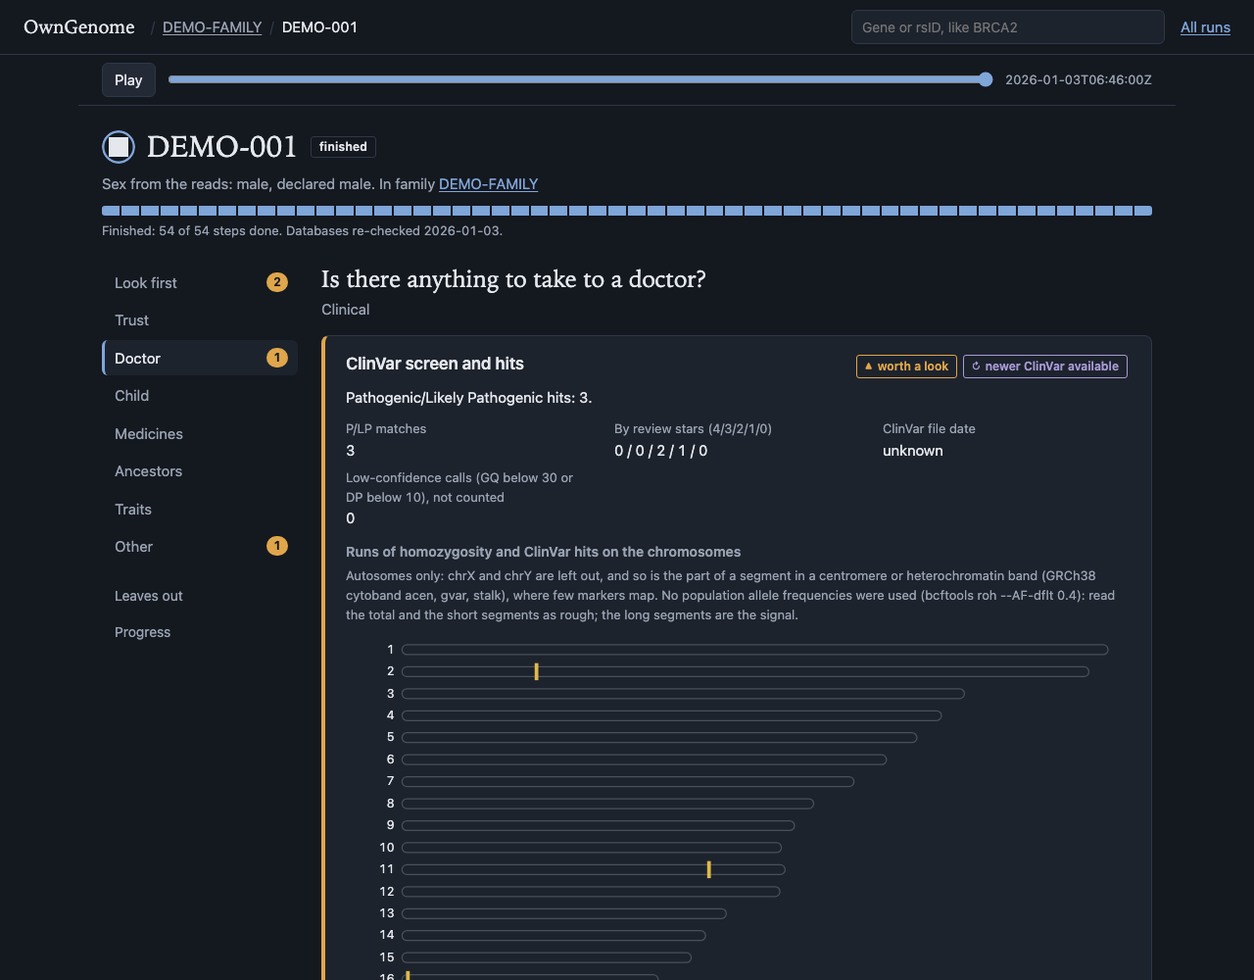
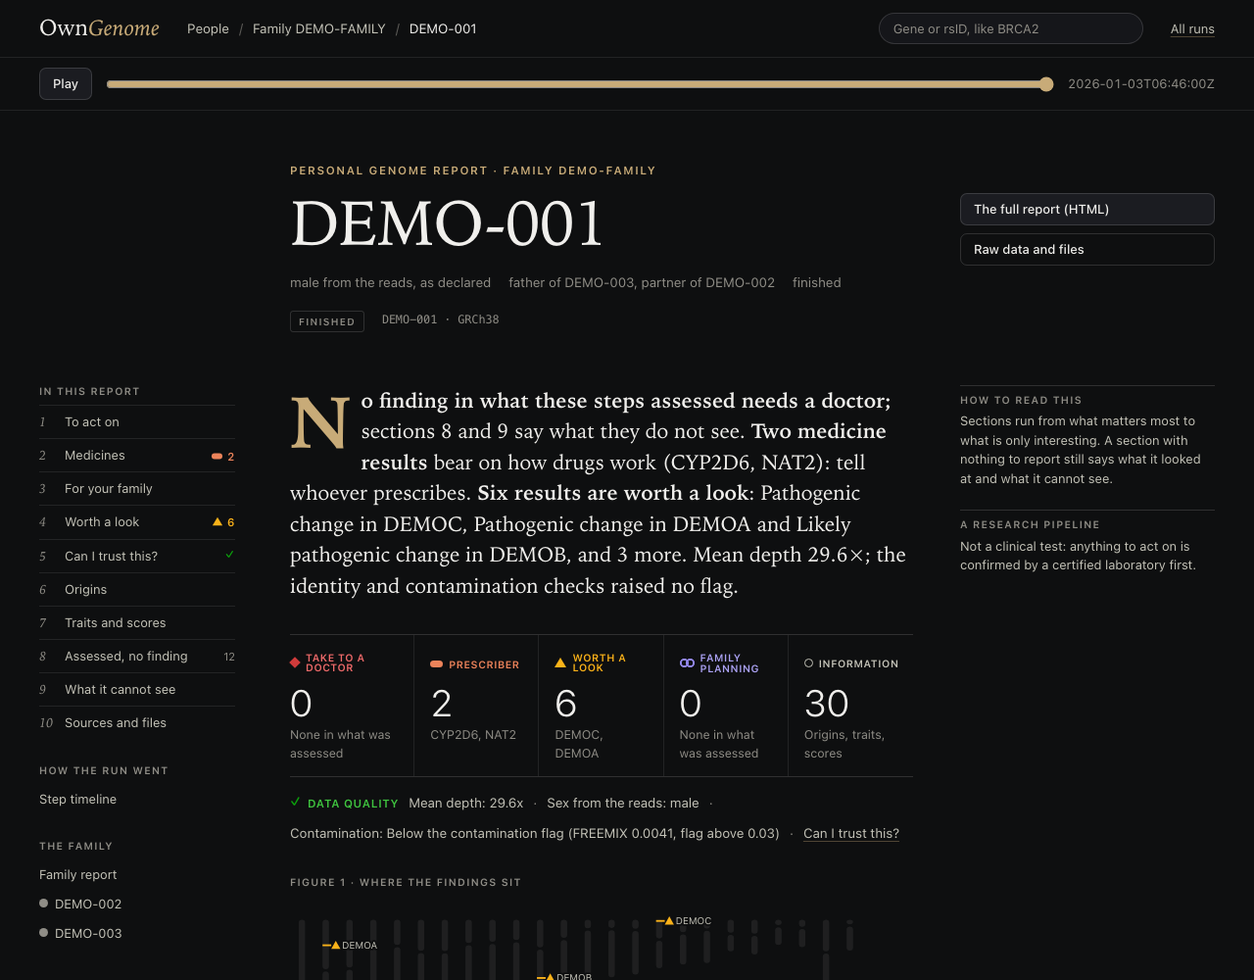
docs(live): describe the Journal pages, the finding route and the new JSON fields
Bead: pgp-5bja.31

diff --git a/docs/live-site.md b/docs/live-site.md
@@ -1,6 +1,6 @@
 # Watch a Run Live
 
-A full run takes a day or more. The live site shows each person's results as their steps finish, in a browser on any device that can reach the machine: the report's chapters as tabs, one card per section with its numbers, its rows and its caveat, and what is worth a look first. A Progress tab keeps the step map. A home page lists everyone by family, and each family has a page of its own. The pages repaint as messages arrive; nobody has to reload them.
+A full run takes a day or more. The live site shows each person's results as their steps finish, in a browser on any device that can reach the machine. Each genome reads as a report: a lead paragraph that says what to take to a doctor, what to tell a prescriber and what is worth a look, then ten numbered sections from what matters most to what the run cannot see, each finding with a page of its own. While the run goes, a timeline of its steps sits on top. A home page lists everyone by family, and each family has a report of its own. The pages repaint as messages arrive; nobody has to reload them.
 
 `bin/owngenome_live.py` is the server. It uses Python's standard library only, so the `python3` on the host is enough, and it has its own password, access log and limits, so it needs no web server in front of it.
 
@@ -8,7 +8,7 @@ A full run takes a day or more. The live site shows each person's results as the
 
 https://geiserx.github.io/OwnGenome/demo/ is the live site on DEMO-001, the invented sample of the docs pictures. It replays a made-up run from the first task to the database re-check after it: press Play, or drag the slider, and watch the cards fill in as their steps end. Every number, result and family member in it is made up. The family is an invented trio: DEMO-001, the partner DEMO-002 and their son DEMO-003. Each of the three has a finished run with its own findings, so every card widget and the whole family page have something to draw: DEMO-002 carries an FMR1 premutation-range count, a CHIP call and a MoChA loss; DEMO-003 a class 4 AnnotSV deletion and a Y path.
 
-![The person page of DEMO-001 at the end of the demo run: the name with a progress strip of 54 finished steps, a tab column (Look first, Trust, Doctor, Child, Medicines, Ancestors, Traits, Other, Leaves out, Progress) with Doctor open, and the ClinVar card marked worth a look and newer ClinVar available, with its counts and the chromosome chart of its hits](images/demo-live-site.png){ loading=lazy }
+![The person page of DEMO-001 at the end of the demo run: the name with its family and run state, the contents of the ten sections with a count per level, the lead paragraph (no finding for a doctor, two medicine results, six worth a look), the five-level ledger, the data-quality line and the start of the chromosome map of the findings](images/demo-live-site.png){ loading=lazy }
 
 The pages and their plugins are the files of `assets/live/`, unchanged. Each moment of the replay is the server's own `state.json` at that moment: `tests/demo/build_live_demo.py` loads every plugin, stores the made-up messages of `tests/fixtures/live/demo-001.weblog.jsonl` one by one as the ingest port would, and reads the state after each. The cards come from the `results.json` the server would give at the end of the run; each shows once the replay reaches the end of its step. The home page, the charts, the search box, the run-health card, the database re-check and the family page work as they do on your own site. The genome viewer does not: it opens your own reads on your own computer, so its links lead to a page that says it is not in the demo.
 
@@ -44,26 +44,35 @@ weblog {
 
 ## What the pages show
 
-**Home** (`/`). Everyone, grouped by family, then the runs in no family. A card shows the pedigree symbol with a ring for the run's progress, the person's place in the family, the steps done and how many cards the report flags. Runs still going come first in each family. A family member with no run on this server is listed, dashed. Without scripts the page is a plain list of runs.
+Every result carries one of six levels, with a word, a shape and a colour, so the shape alone tells them apart: **Take to a doctor** (◆), **Tell your prescriber** (a pill), **Worth a look** (▲), **For family planning** (two rings), **Data quality** (✓, red when the data has a problem) and **For information** (○). `bin/live_results.py` sets the level from the rows the report already prints: an ACMG secondary finding, a pathogenic CPSR row or two hits in a carrier-list gene is to act on; a ClinVar hit, an AnnotSV class 4, a repeat outside Stranger's normal, a CHIP or MoChA call or an Exomiser top gene is worth a look (a full-mutation repeat, an AnnotSV class 5 and a positive VNtyper call are to act on); a carrier-list row, a gene both partners carry and one SMN1 copy are for family planning; a CPIC gene with changed function is for the prescriber; a sex mismatch, a contamination warning or a second run of the same person is data quality. Everything else is for information. No page says a section is fine: a section with no finding says "No finding in what these steps assessed" and what it looked at.
 
-**A person** (`/runs/<run>/`). The name, the declared and measured sex, the families they are in, and a strip with one cell per planned step. Below, one tab per chapter of the report, each named by its question:
+**Home** (`/`). A date line, then one sentence on where everyone stands (how many reports are finished or being written, and whether any finding needs a doctor), and beside it the findings that need attention across everyone, one line per person and level, each opening its finding page. A run still going comes first, as "Being written", with its steps done and the sections already written. Then each family: a small pedigree in the members' colours and one tile per person, with the first lines of their report's lead and their counts by level. A family member with no run on this server is listed, dashed. Last, every run as a log: state, steps, hours, when it ended. Without scripts the page is a plain list of runs.
 
-- **Look first** opens by default once a step has finished: the cards the report itself flags, in chapter order, each with its headline. A card not listed is for information; its caveats still apply.
-- **Trust, Doctor, Child, Medicines, Ancestors, Traits, Other** follow the report's seven chapters. One card per section, with the section's numbers, its rows (the first ones, then a button for all), its own sentences and its charts. Under each card sits its caveat: the first sentence, then the rest behind "Full caveat". A card is marked "worth a look" (▲) only where the report or the step headline raises a flag, and "for information" (○) otherwise; no card says a section is fine. A card whose step has not ended says so; one whose step failed or is older than its input says that. A newer database release shows on the cards it would change. Some cards draw their numbers as well: the repeat expansions as one gauge per locus (the count against Stranger's normal and pathologic thresholds, with its 95% interval; an allele not sized from short reads is drawn hollow and never called normal), Lp(a) as the KIV-2 count with its 95% interval, CHIP as each call's VAF against its gene's detection limit, the copy numbers of SMN1, SMN2, HBA1, HBA2 and the RCCX module as dots, and the Y haplogroup as its path from the root, with the marker counts of each level. Each drawing has the same numbers as text beside it. APOE stays behind its warning in the traits card; the polygenic scores show only once they are placed against the ancestry panel.
-- **Leaves out** lists what the run does not assess.
-- **Progress** is the step map, a step's detail, Found so far, the run-health card and the database re-check, as before.
+**A person** (`/runs/<run>/`). The name, the sex the reads show against the declared one, the person's place in the family and the run state. Down the left, the contents: the ten sections with how many findings each level has, then the step timeline and the family. The page opens on the lead: a paragraph built from the findings (data-quality problems first, then the findings for a doctor named one by one, the medicine genes, the carrier genes, what is worth a look, and the mean depth), the ledger of the five levels with a count each, the data-quality line, and Figure 1, the chromosomes with each finding at its place. Then the sections:
 
-Each card links to its section of the report and to the files it names. The header search finds a gene or rsID across the results and opens the card that names it. `#q/<chapter>` opens a tab, `#s/<section>` opens a card (the report's own anchors), `#progress` the step map.
+1. **To act on**, 2. **Medicines**, 3. **For your family**, 4. **Worth a look**, 5. **Can I trust this?**: each finding of the level, with what it is, what to do, and in the margin its evidence, its caveat and its link to the report; then the cards of the report's sections that belong there.
+6. **Origins** and 7. **Traits and scores**: the ancestry and trait cards.
+8. **Assessed, no finding**: one line per section that ran and raised nothing, each opening its full card.
+9. **What it cannot see**: what the run does not assess and the steps that did not run.
+10. **Sources and files**: the database versions, the database re-check, and the report and its files.
 
-- **The step map.** One box per step the run planned, drawn from `assets/steps.tsv`: a step sits right of the steps whose output it reads. The colour is the step's state from `bin/run_state.py` ([Where a Run Stands](run-state.md)): waiting, running, done, failed, skipped, not finished. Skipped steps stay on the map, greyed.
-- **A step's detail.** Click a box: its state and reason, start and end, the usual hours, each process with its tasks waiting, running, done, from the cache or failed, and the headline of its sections with a link into the report.
-- **Found so far.** One line per finished section, worded by the same code that writes the report, caveat included. No line ever says a section is fine. The ClinVar line, with no hit, is information, never an all-clear.
+A card has the section's numbers, its rows (the first ones, then a button for all), its own sentences and its charts, and under it its caveat: the first sentence, then the rest behind "Full caveat". A section waiting for its step says "being written" or "waiting", one whose step failed says so, and a newer database release shows on the cards it would change. Some cards draw their numbers as well: the repeat expansions as one gauge per locus (the count against Stranger's normal and pathologic thresholds, with its 95% interval; an allele not sized from short reads is drawn hollow and never called normal), Lp(a) as the KIV-2 count with its 95% interval, CHIP as each call's VAF against its gene's detection limit, the copy numbers of SMN1, SMN2, HBA1, HBA2 and the RCCX module as dots, and the Y haplogroup as its path from the root, with the marker counts of each level. Each drawing has the same numbers as text beside it. APOE stays behind its warning in the traits card; the polygenic scores show only once they are placed against the ancestry panel. On a child's page in a family, a result to act on stays closed behind "Show the result" until someone opens it on purpose.
+
+While the run goes, the page opens on the run instead: a sentence on how far it is ("23 of 27 are done, about 8–13 hours remain"), the steps done as a big number and a bar, the time elapsed, the time to go from the usual step times, the retries, and the tasks running now against their usual time. Each section in the contents says whether it is written, being written or waiting.
+
+- **How the run went.** One line per step the run planned, on a time axis: a bar from its start to its end, or to now while it runs, with an outline to its usual hours. The colour is the step's state from `bin/run_state.py` ([Where a Run Stands](run-state.md)): waiting, running, done, failed, skipped, not finished. Beside it the tasks running now, a step's detail and the wire of what was found so far.
+- **A step's detail.** Click a step: its state and reason, start and end, the usual hours, each process with its tasks waiting, running, done, from the cache or failed, and the headline of its sections with a link into the report.
+- **Found so far.** One line per finished section, worded by the same code that writes the report, caveat included. The ClinVar line, with no hit, is information, never a clean result.
 - **The report.** Once written, `report.html` opens the run's `<sample>_report.html`, and the files it links to beside it.
-- **The genome viewer.** `/runs/<run>/viewer/` shows the run's reads and variants in igv.js, as [`scripts/owngenome-view.sh`](viewer.md) does on one computer. The report's Viewer links and the charts' "See the reads" links open it at their position.
+- **The genome viewer.** `/runs/<run>/viewer/` shows the run's reads and variants in igv.js, as [`scripts/owngenome-view.sh`](viewer.md) does on one computer. The report's Viewer links, the charts' "See the reads" links and a finding page's reads open it at their position.
 
-**A family** (`/runs/<family>/`). The pedigree, drawn from `members.tsv` or `pedigree.tsv`, where each sequenced person with a run here opens their page and shows how many cards their report flags. Then the members, the analyses step 38 planned, each couple's carrier screen in full (genes where both carry a finding, X-linked genes, genes where one partner does), with the screen's caveat and a link to the couple report, who is related how (step 38's relationship check beside the shared segments, as a grid of every pair, with ⚑ where the measured relationship differs from the declared one), and each child: the stretches inherited from each parent painted per chromosome (coloured by grandparent where step 38 could tell), the de novo candidates and the compound-het pairs, in trans first. Last, the members side by side: their CYP2D6 calls, CPIC phenotypes, HLA types, haplogroups and blood groups, one column each. On a phone the grid becomes a list of pairs.
+The header search finds a gene or rsID across the results and opens the card that names it. `#s<n>` opens a section, `#s/<section>` a card (the report's own anchors), `#f/<finding>` a finding, `#q/<chapter>` the section a report chapter falls in, `#progress` the timeline.
 
-On a phone the tab column becomes a row that scrolls sideways and each table row becomes a short list of label and value. The pages follow the browser's dark or light setting.
+**A finding** (`/runs/<run>/finding/<id>/`). One finding on a page of its own: its level and how many others share it, the title, the gene and variant, a plain explanation, and **What to do** as numbered steps. Then the evidence (its numbers, how common the change is on a log scale from one in a million to everyone, the caveat in the margin), the reads with a link to the genome viewer, the rest of the family, the related findings of the same gene or step, and the section of the report it comes from. The contents on the left lead back to the report and on to the next finding. The page is 404 unless the id is a finding of that run's `results.json` now.
+
+**A family** (`/runs/<family>/`). A report in five chapters, opened by a lead: how many genomes are read together, whether the couple shares a carrier gene, whether the measured relationships match the tree, and how many children. I, the pedigree, drawn from `members.tsv` or `pedigree.tsv` in the members' colours, where each sequenced person with a run here opens their page and shows how many cards their report flags, beside the members and the analyses step 38 planned. II, who is related how: step 38's relationship check beside the shared segments, as a grid of every pair, with ⚑ where the measured relationship differs from the declared one. III, each couple's carrier screen in full (genes where both carry a finding, drawn as four children with the chance for each, X-linked genes, genes where one partner does), with the screen's caveat and a link to the couple report. IV, each child: the stretches inherited from each parent painted per chromosome (coloured by grandparent where step 38 could tell), the de novo candidates and the compound-het pairs, in trans first. V, the members side by side: their CYP2D6 calls, CPIC phenotypes, HLA types, haplogroups and blood groups, one column each. On a phone the grid becomes a list of pairs.
+
+On a phone each page is one column: the contents give way to a tab bar at the bottom (To act, Medicines, Family, Trust, More), and each table row becomes a short list of label and value. The pages are dark.
 
 ## The genome viewer
 
@@ -73,9 +82,9 @@ Per run it serves the folder's BAM or CRAM, its VCF and its SV VCF, each with it
 
 The reads cross the network to the browser that logged in: only the byte ranges igv.js asks for, but they are the sample's reads. Off loopback, use TLS (`--tls-cert` and `--tls-key`, or a proxy that ends TLS); without it the password and the reads cross the network in clear. Opening the viewer writes one access-log row; the byte ranges igv.js reads write none.
 
-`GET /` lists the runs: each folder under `GENOME_DIR` holding `logs/run_status.tsv`, `nextflow/` or `run_manifest.tsv`, and each run the site has messages for. The home page reads `/runs.json`: each run's progress and attention count, and each family with its members.
+`GET /` lists the runs: each folder under `GENOME_DIR` holding `logs/run_status.tsv`, `nextflow/` or `run_manifest.tsv`, and each run the site has messages for. The home page reads `/runs.json`: each run's progress and attention count, and each family with its members. A run with results also has `levels` (its findings counted by level), `top` (up to four findings to show first: id, level, title) and `lead` (its lead paragraph as plain text).
 
-The person page reads `/runs/<run>/results.json` from `bin/owngenome_live_results.py`: `bin/live_results.py` turns the run's summary (its `summary.json` when step 24 wrote it after every finished step, else the step files read again when a step ends; a rewritten `summary.json` is read again too, and the page fetches the cards again) into the report's chapters, one card per section. It computes nothing about genetics and holds only what the report prints. The family page reads `/runs/<family>/family.json` from the family plugin, and asks again every 30 seconds, so a member's progress and a new couple screen show without a reload.
+The person page reads `/runs/<run>/results.json` from `bin/owngenome_live_results.py`: `bin/live_results.py` turns the run's summary (its `summary.json` when step 24 wrote it after every finished step, else the step files read again when a step ends; a rewritten `summary.json` is read again too, and the page fetches the cards again) into the report's chapters, one card per section. Each card also has its `level`; the file adds `findings` (each with its id, level, section, title, plain text, gene, evidence, caveat, plan and related findings), `levels` (the counts), `journal` (the ten sections and the cards in each), `lead` (the lead paragraph as text pieces, the bold ones marked), `level_words` and `databases`. It computes nothing about genetics and holds only what the report prints. The family page reads `/runs/<family>/family.json` from the family plugin, and asks again every 30 seconds, so a member's progress and a new couple screen show without a reload.
 
 ## Privacy and what is stored
 
@@ -167,8 +176,8 @@ WantedBy=multi-user.target
 The core files (`bin/owngenome_live.py`, `assets/live/index.html`, `home.html`, `family.html`, `core.js`, `live.js`, `person.js`, `home.js`, `family-page.js`, `live.css`, `login.html`) are meant to stay small. A new view adds two files instead of editing them:
 
 - `bin/owngenome_live_<name>.py` with `register(app)`. At start the server imports every such file, sorted, and calls it. `app.route(method, pattern, fn, auth=True)` adds a page or an endpoint (behind the login unless `auth=False`), `app.run_file(glob)` lets the browser fetch more files of a run folder, `app.report_filter(fn)` rewrites the served report, `app.state_hook(name, fn)` adds `plugins[name]` to `state.json`, `app.run_kind(fn)` lists more runs, `app.add_argument(...)` adds a flag, `app.log(...)` writes an access-log row, and `app.config` holds the parsed flags.
-- `assets/live/plugins/<name>.js`. The run page loads every script in that folder after `live.js`; it calls `window.PGP.register({name, onState, onEvent, panel})`. `onState(state)` gets each new `state.json`, `onEvent(message)` each message from the stream, and `panel(element)` gets a card of its own in the Progress tab, or in the element whose id `slot` names (the search box sits in the header this way). A family's page loads the same scripts without `live.js`, so a plugin returns early when `window.PGP` is missing.
+- `assets/live/plugins/<name>.js`. The run page loads every script in that folder after `live.js`; it calls `window.PGP.register({name, onState, onEvent, panel})`. `onState(state)` gets each new `state.json`, `onEvent(message)` each message from the stream, and `panel(element)` gets a card of its own beside the run timeline, or in the element whose id `slot` names (the search box sits in the header this way). A family's page loads the same scripts without `live.js`, so a plugin returns early when `window.PGP` is missing.
 
 The page has a replay mode for a demo with no server: `<html data-mode="replay">` reads `frames.json` (`{"interval_ms": 1000, "frames": [{"t": ..., "state": <state.json>}]}`) and plays it with a play button and a slider, through the same drawing code.
 
-`tests/test_owngenome_live.py` checks the server, the login, the stored messages, the plugin interface and the page in a headless Chrome; `tests/test_live_results.py` checks `results.json` (every card's caveat word for word, no wording that reads as an all-clear, `results.json` behind the login); `tests/test_live_demo.py` builds the demo and checks every page, phone width included; `tests/test_live_post.sh` and `tests/fake-docker/run-all-live.sh` check what `run-all.sh` posts.
+`tests/test_owngenome_live.py` checks the server, the login, the stored messages, the plugin interface and the page in a headless Chrome; `tests/test_live_results.py` checks `results.json` (every card's caveat word for word, no wording that reads as an all-clear, `results.json` behind the login); `tests/test_live_journal.py` checks the levels, the lead paragraph and the finding page's route; `tests/test_live_demo.py` builds the demo and checks every page, phone width included; `tests/test_live_post.sh` and `tests/fake-docker/run-all-live.sh` check what `run-all.sh` posts.

diff --git a/docs/recheck.md b/docs/recheck.md
@@ -91,7 +91,7 @@ python3 bin/owngenome_recheck.py --launch-dir /path/to/launch/dir
 
 ## In the reports and on the live site
 
-The next reports read `recheck/state.json`: both show one "Database re-check" line in the run facts. A check older than the sample's `run_manifest.tsv` describes an earlier run, so the reports leave it out until the next check. When the sample has a previous run in `history/` ([the delta report](delta-report.md)), a section whose results changed since it carries a badge such as "New since 2026-10-01T09:15:00Z", in both reports, and the delta report heads its changes the same way. The live site's re-check plugin (`bin/owngenome_live_recheck.py`, `assets/live/plugins/recheck.js`) shows the same line as a banner, puts a badge (↻) such as "newer ClinVar available" in the header of every result card of a named step on the person page, and marks each named step on the Progress tab's step map with a dot whose tooltip says the same or "redone 2026-10-05".
+The next reports read `recheck/state.json`: both show one "Database re-check" line in the run facts. A check older than the sample's `run_manifest.tsv` describes an earlier run, so the reports leave it out until the next check. When the sample has a previous run in `history/` ([the delta report](delta-report.md)), a section whose results changed since it carries a badge such as "New since 2026-10-01T09:15:00Z", in both reports, and the delta report heads its changes the same way. The live site's re-check plugin (`bin/owngenome_live_recheck.py`, `assets/live/plugins/recheck.js`) shows the same line as a banner, puts a badge (↻) such as "newer ClinVar available" in the header of every result card of a named step on the person page, and marks each named step on the run timeline with a dot at the end of its line, whose tooltip says the same or "redone 2026-10-05".
 
 The Nextflow `HTML_REPORT` process sees no `history/` folder, so its report has no "New since" badge.
 

diff --git a/README.md b/README.md
@@ -66,7 +66,7 @@ The full documentation is at **https://geiserx.github.io/OwnGenome/**, one page 
 - [Vendor compatibility guide](https://geiserx.github.io/OwnGenome/vendor-guide/): what each provider delivers and how to get it
 - [Pipeline overview](https://geiserx.github.io/OwnGenome/pipeline-overview/): every step with its tool and image, which ones a default run includes, and the page for each step
 - [Nextflow](https://geiserx.github.io/OwnGenome/nextflow/): the workflow runner, parallel steps and resume
-- [Watch a run live](https://geiserx.github.io/OwnGenome/live-site/): a results page per person, laid out by the report's chapters, a page per family, and the step map in a Progress tab while the run goes, behind a password. The [demo](https://geiserx.github.io/OwnGenome/demo/) replays an invented run
+- [Watch a run live](https://geiserx.github.io/OwnGenome/live-site/): each genome as a report that leads with what to take to a doctor, a page per finding, a report per family, and a timeline of the steps while the run goes, behind a password. The [demo](https://geiserx.github.io/OwnGenome/demo/) replays an invented run
 - [Interpreting your results](https://geiserx.github.io/OwnGenome/interpreting-results/): what each report means and what to do with it
 - [Multi-sample comparison](https://geiserx.github.io/OwnGenome/multi-sample/): partners, siblings, parents
 - [Long-read guide](https://geiserx.github.io/OwnGenome/long-read-guide/): Nanopore and PacBio HiFi
